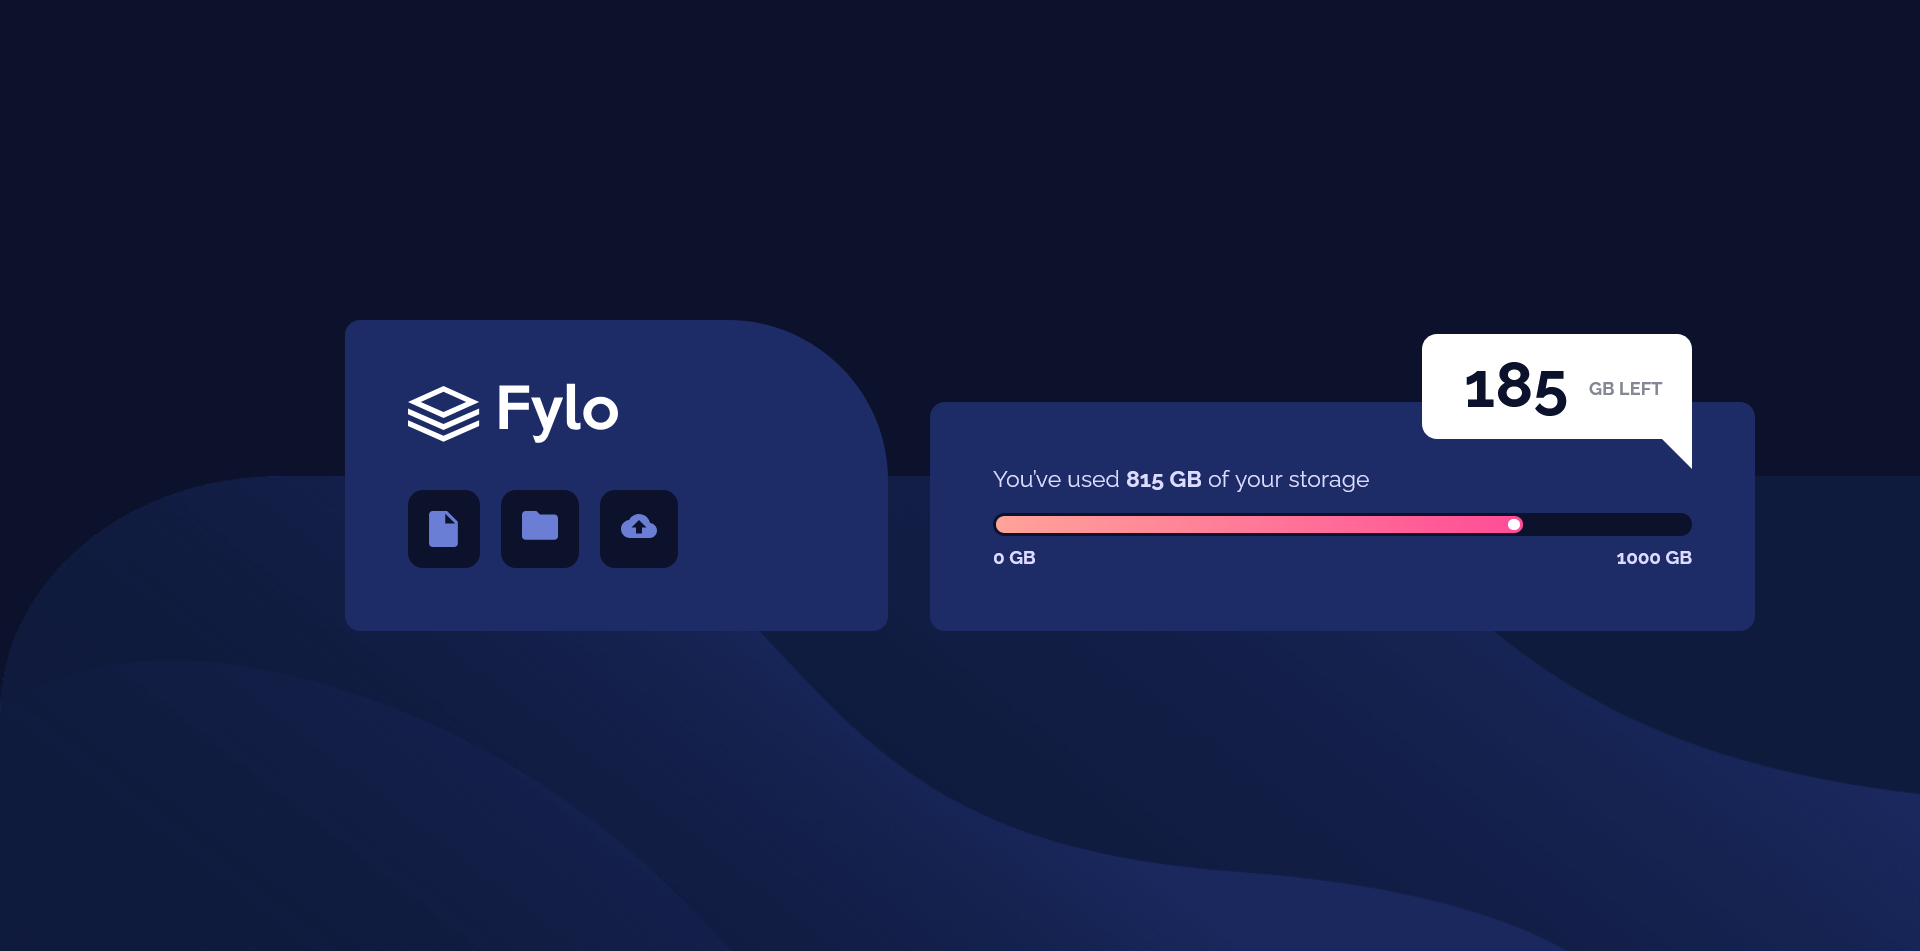
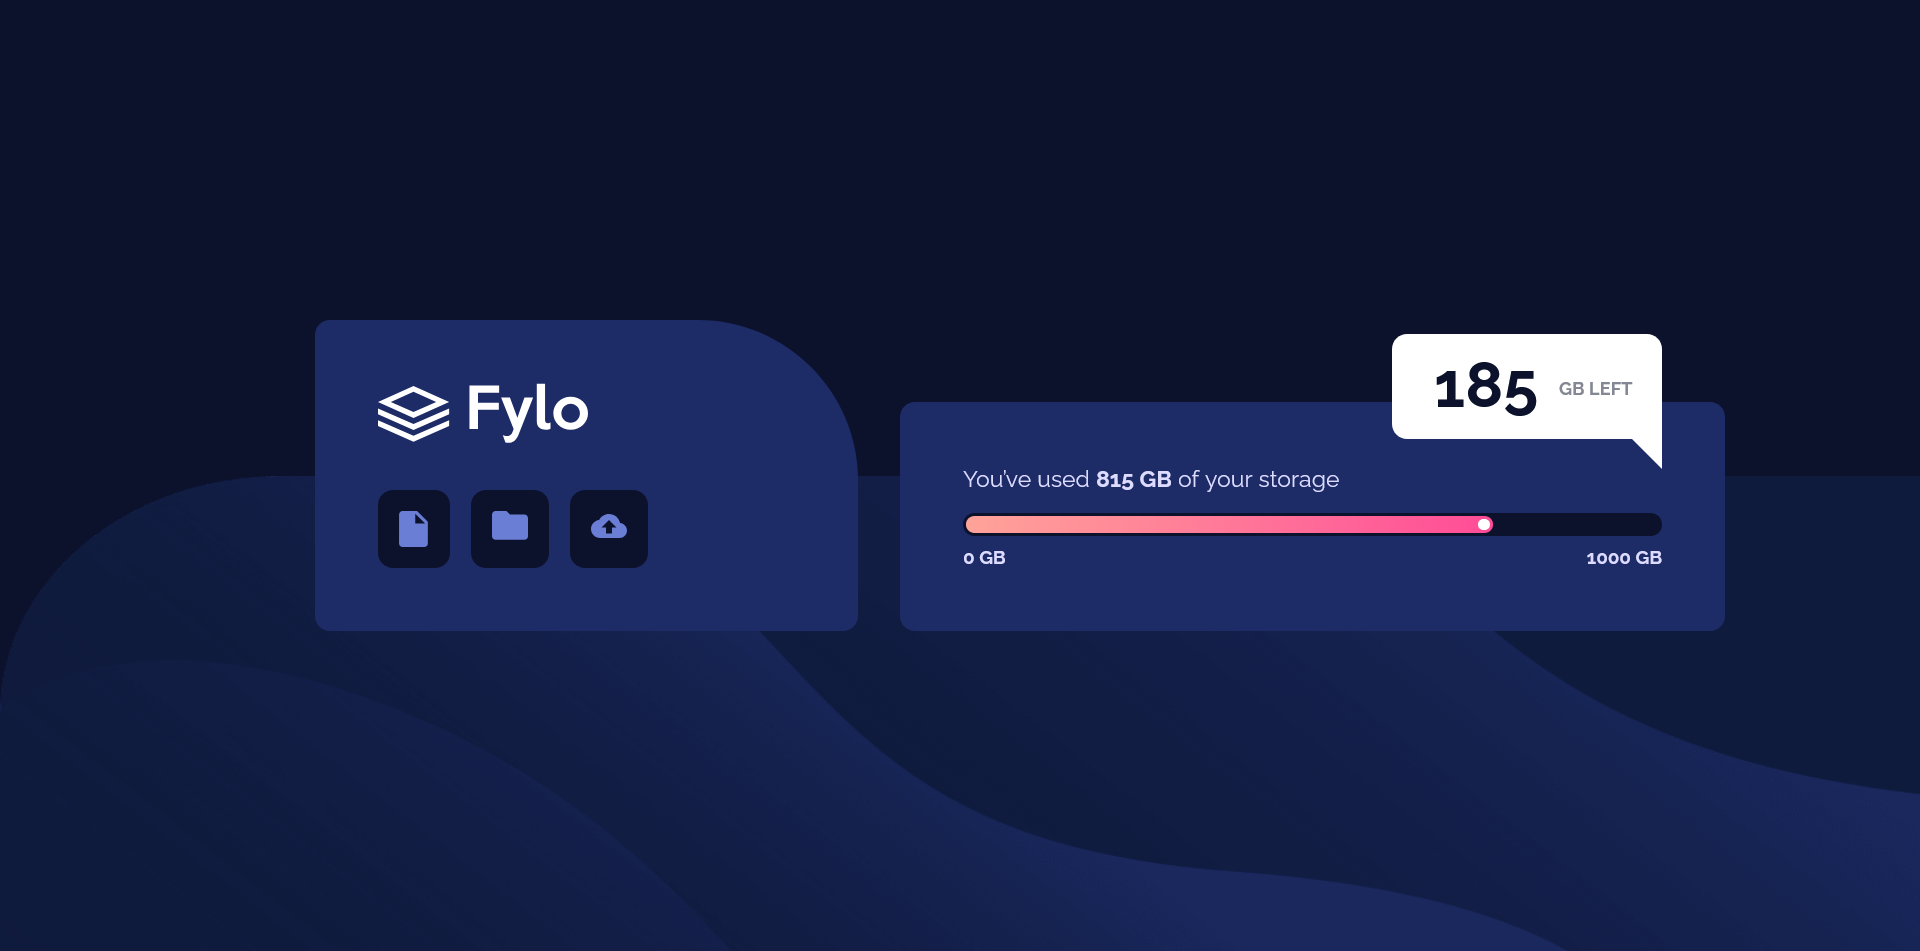
update

diff --git a/style.css b/style.css
@@ -22,31 +22,25 @@ body {
 }
 
 .container {
-  transform: translateX(60px);
+  transform: translateX(40px);
   max-width: 100vw;
   display: flex;
   gap: 2rem;
 }
 
 .functions {
-  /* display: flex;
-  flex-direction: column; */
   gap: 3rem;
-  /* border: solid 2px orange; */
   background-color: hsl(228, 56%, 26%);
   padding: 3rem;
   padding-right: 10rem;
-  /* height: 200px; */
   min-width: 35%;
   border-radius: 10px;
   border-top-right-radius: 107px;
-  /* width: fit-content; */
 }
 
 .logo {
   width: 140px;
   height: 40px;
-  /* max-inline-size: 50%; */
   margin-bottom: 2rem;
 }
 
@@ -68,14 +62,11 @@ body {
 
 .icon img {
   vertical-align: middle;
-  /* display: inline-block; */
 }
 
 .info-container {
   display: flex;
   flex-direction: column;
-  /* border: solid 2px red; */
-  /* min-width: 60%; */
   width: 550px;
   justify-content: end;
   position: relative;
@@ -87,13 +78,11 @@ body {
   position: absolute;
   top: 9px;
   right: 3rem;
-  /* display: flex; */
   background-color: white;
   width: 180px;
   align-self: flex-start;
   height: 70px;
   padding: 0.7rem;
-  /* padding-bottom: 2rem; */
   padding-left: 2rem;
   border-radius: 10px;
   border-bottom-right-radius: 0;
@@ -110,7 +99,6 @@ body {
   position: absolute;
   right: 0;
   top: 70px;
-  /* background-color: red; */
 }
 
 .gb-number {
@@ -129,16 +117,13 @@ body {
 .info-p {
   margin-bottom: 1rem;
   font-size: 1.1rem;
-  /* border-top: solid 1px yellow; */
 }
 
 .info {
-  /* border: solid 2px yellowgreen; */
   background-color: hsl(228, 56%, 26%);
   color: hsl(243, 100%, 93%);
   padding: 3rem;
   border-radius: 10px;
-  /* justify-self: end; */
 }
 
 .meter {
@@ -154,7 +139,6 @@ body {
   display: flex;
   justify-content: end;
   padding: 2px;
-  /* z-index: 1; */
   border-radius: 50px;
   width: 76%;
   height: 100%;
@@ -195,9 +179,7 @@ body {
     text-align: center;
   }
   .gb-left-msg {
-    /* position: static; */
-    /* transform: translate(calc(40%), 300%); */
-    top: calc(100% - 20%);
+    top: calc(100% - 20%);        /* wtf are these calcs? lol what a n00b */
     right: calc(100% - 75%);
     justify-self: end;
     border-bottom-right-radius: 10px;

diff --git a/README.md b/README.md
@@ -9,9 +9,9 @@ Users should be able to:
 - View the optimal layout for the site depending on their device's screen size
 
 
-![](./screenshot.jpg)
+![](./screenshot.png)
 
-- [Solution](https://your-solution-url.com)
+- [Solution](https://www.frontendmentor.io/solutions/fylo-data-storage-component---html-css-1A6Rl8Z1fc)
 - [Live Site](https://lspacka.github.io/FEM-fylo-data-storage-component/)
 
 ### Built with
